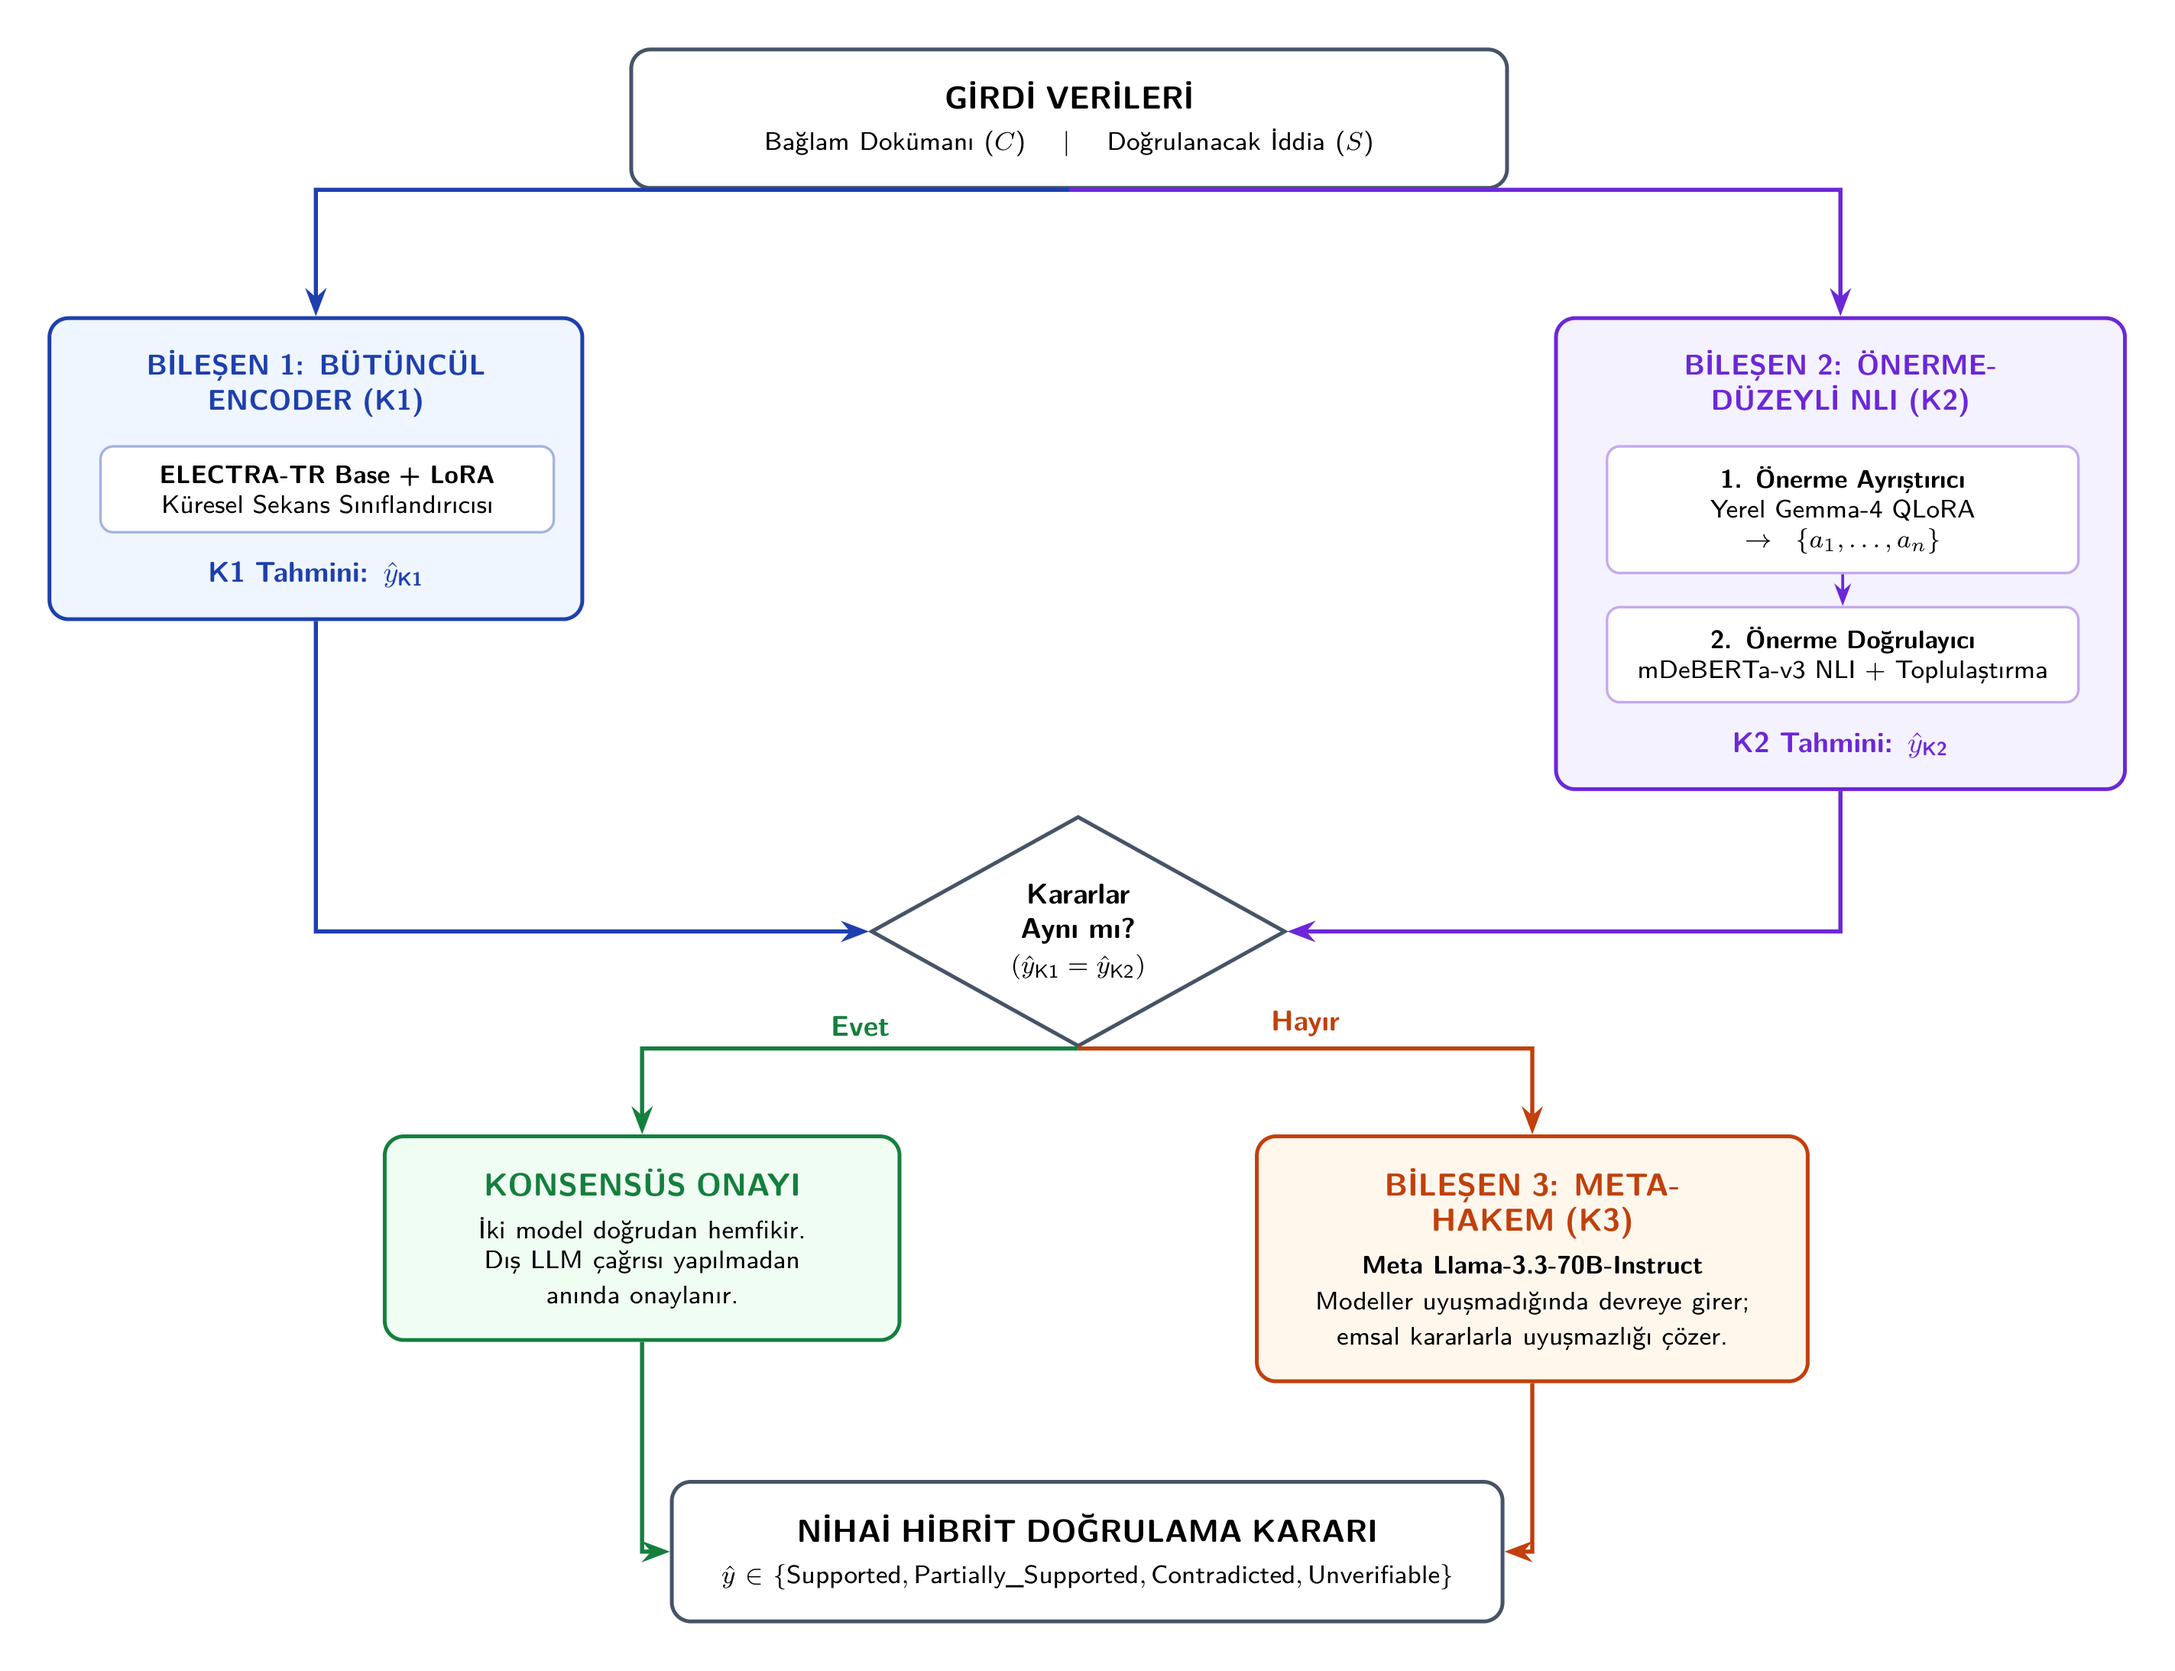
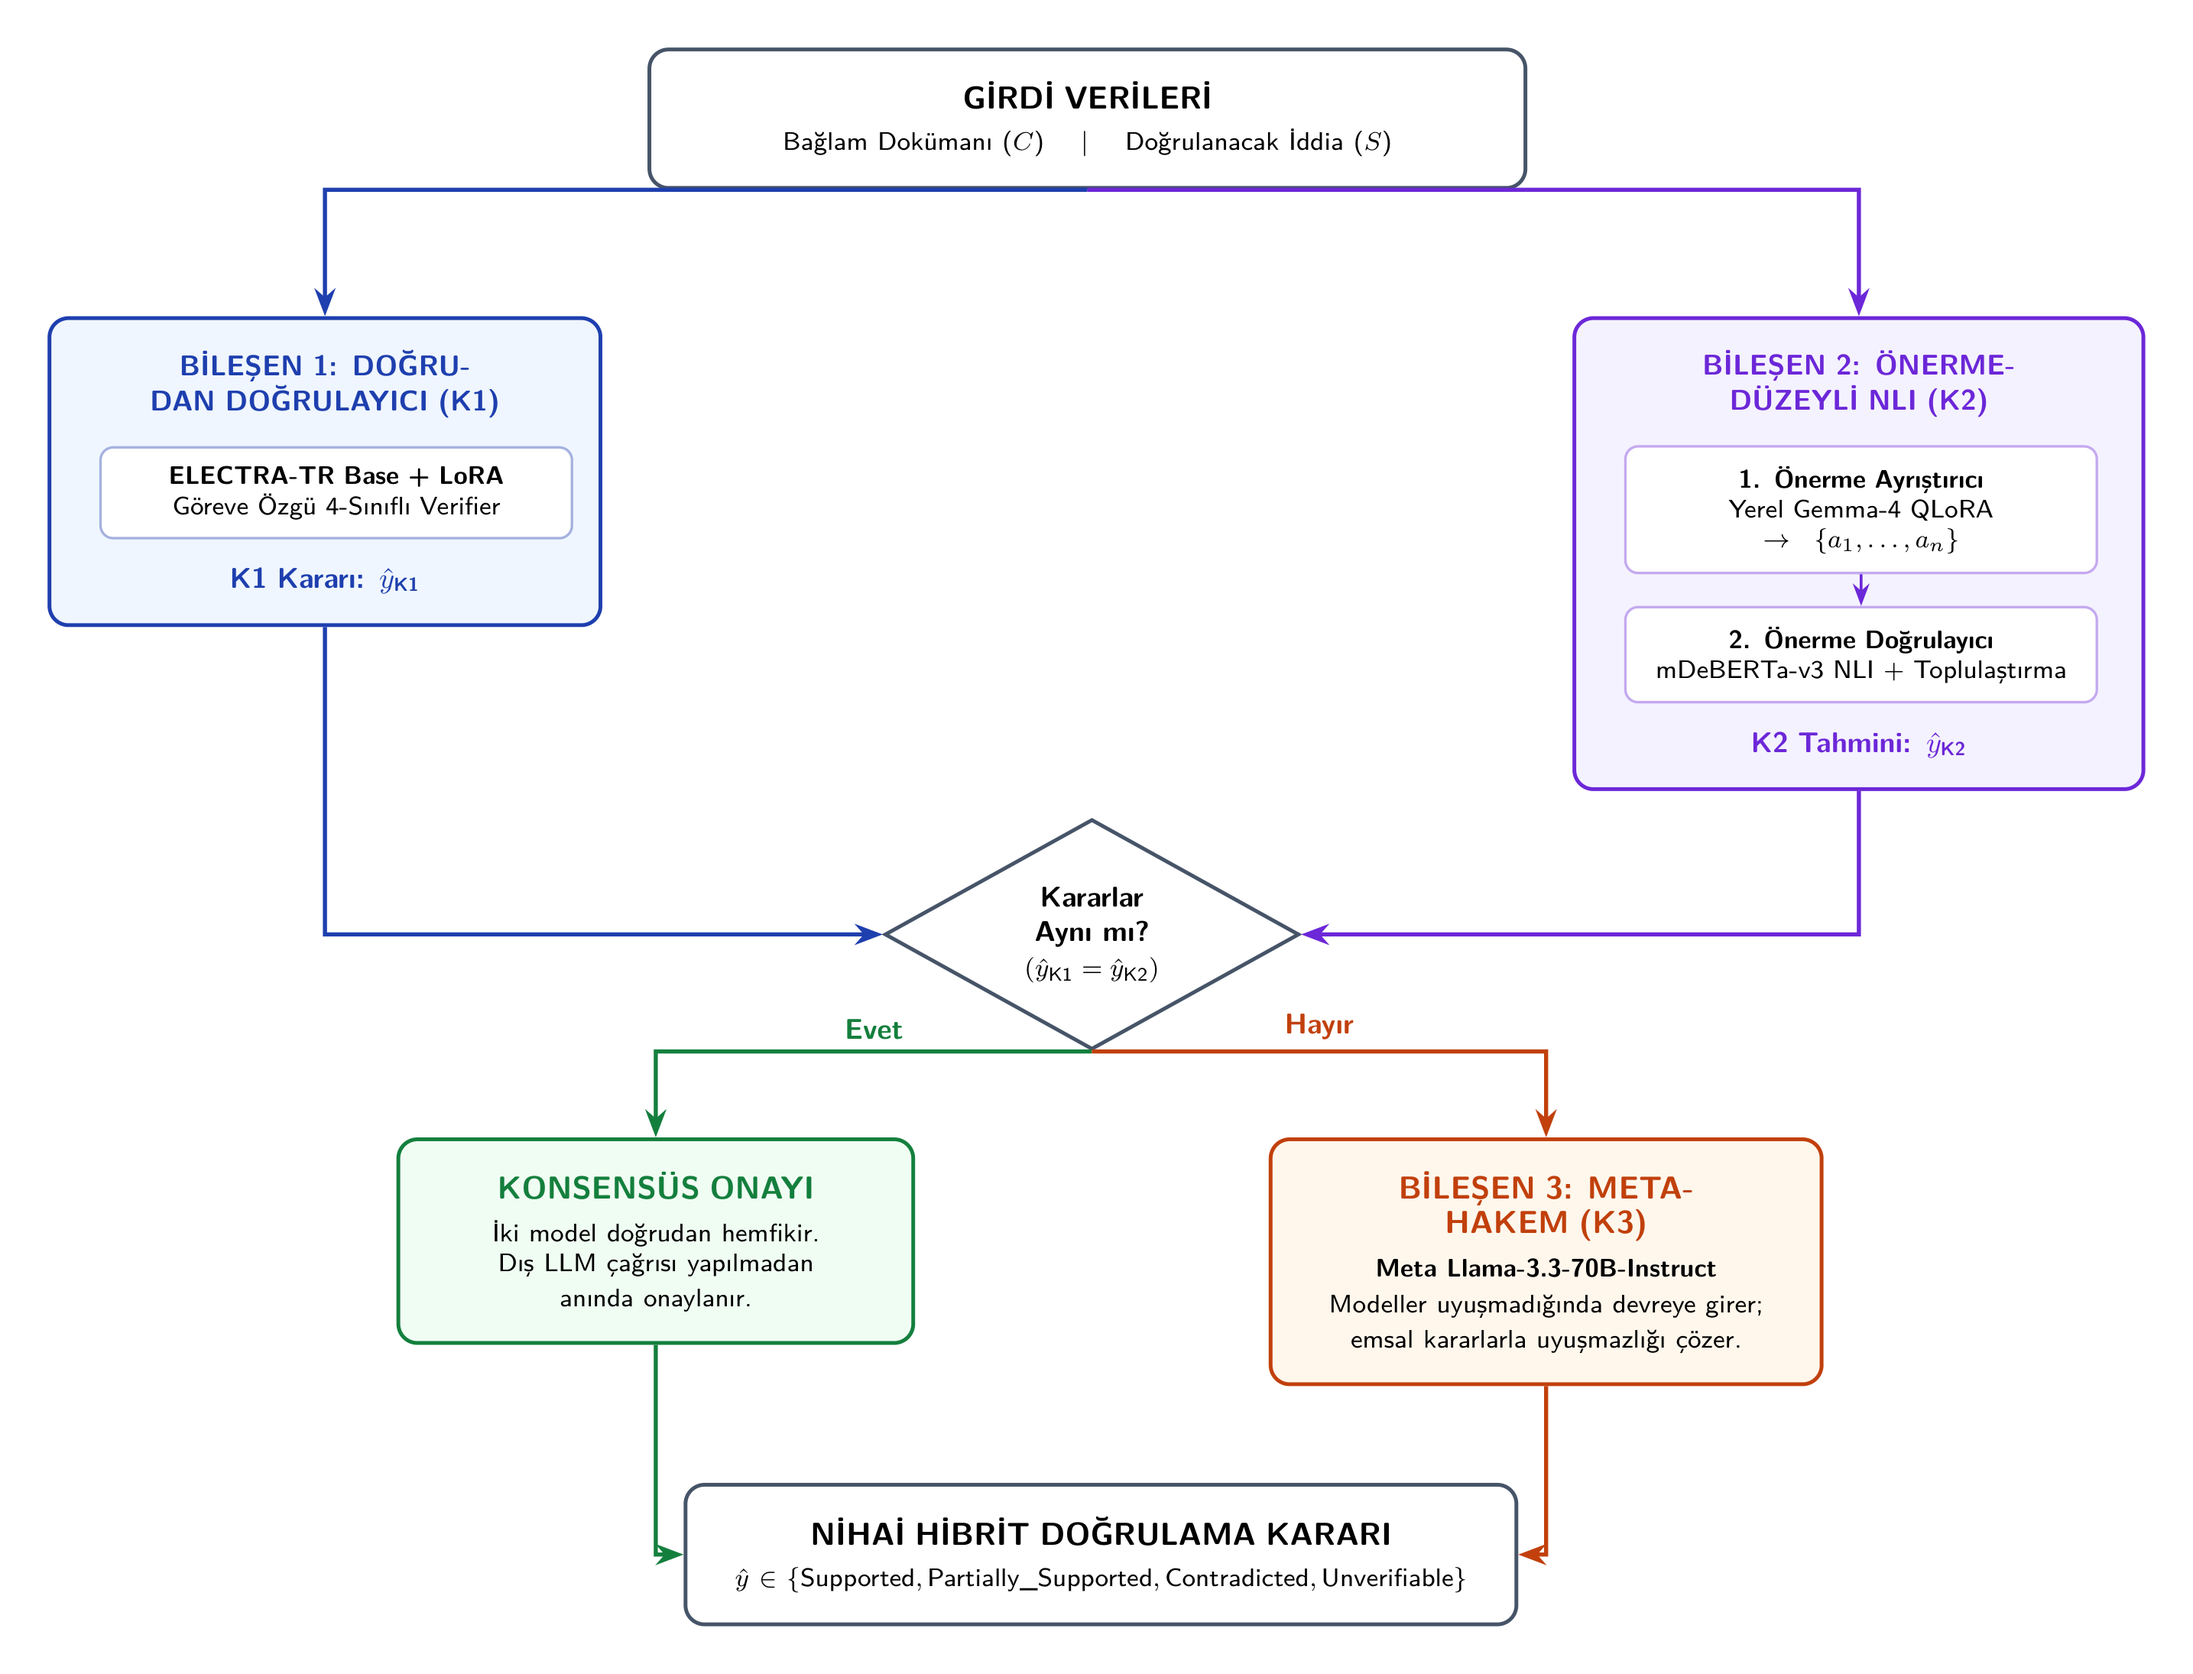
docs: replace artificial sequence classifier term with canonical Direct Verifier naming

diff --git a/reports/figures/hybrid_pipeline_architecture.tex b/reports/figures/hybrid_pipeline_architecture.tex
@@ -55,18 +55,18 @@
 };
 
 % 2. BİLEŞEN 1 (K1) - SOL SÜTUN
-\node[box=k1blue, fill=k1bg, text width=5.2cm, below left=1.4cm and 0.5cm of input] (k1) {
-    \textbf{\textcolor{k1blue}{BİLEŞEN 1: BÜTÜNCÜL ENCODER (K1)}}\\[8pt]
-    \begin{minipage}{4.8cm}
+\node[box=k1blue, fill=k1bg, text width=5.4cm, below left=1.4cm and 0.5cm of input] (k1) {
+    \textbf{\textcolor{k1blue}{BİLEŞEN 1: DOĞRUDAN DOĞRULAYICI (K1)}}\\[8pt]
+    \begin{minipage}{5.0cm}
         \centering
         \begin{tikzpicture}[font=\footnotesize]
-            \node[subnode=k1blue!40, text width=4.6cm] (k1_model) {
+            \node[subnode=k1blue!40, text width=4.8cm] (k1_model) {
                 \textbf{ELECTRA-TR Base + LoRA}\\
-                Küresel Sekans Sınıflandırıcısı
+                Göreve Özgü 4-Sınıflı Verifier
             };
         \end{tikzpicture}
     \end{minipage}\\[8pt]
-    \textbf{\textcolor{k1blue}{K1 Tahmini: $\hat{y}_{\text{K1}}$}}
+    \textbf{\textcolor{k1blue}{K1 Kararı: $\hat{y}_{\text{K1}}$}}
 };
 
 % 3. BİLEŞEN 2 (K2) - SAĞ SÜTUN
